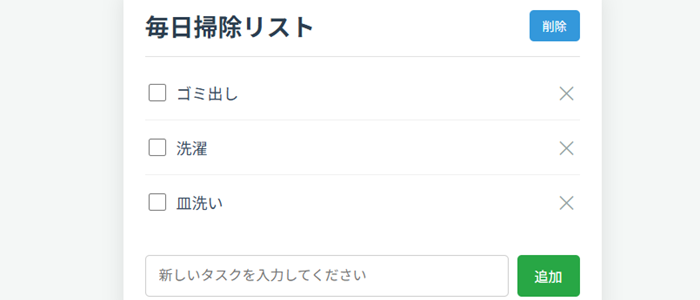
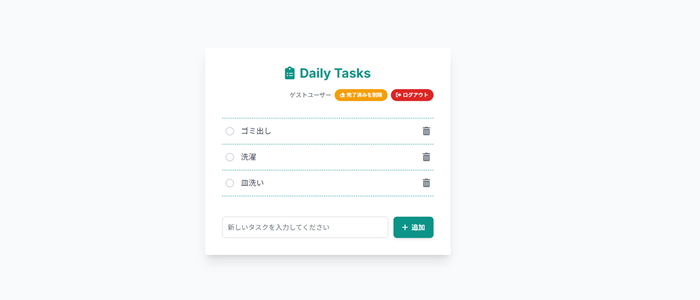
文章少し変更

diff --git a/src/components/About.tsx b/src/components/About.tsx
@@ -48,11 +48,11 @@ const About = () => {
           </ul>
 
           <h3 className="text-2xl font-semibold text-gray-700 mt-8 mb-4">
-            学習中の技術・今後の目標
+            今後の目標
           </h3>
           <ul className="list-disc list-inside text-gray-600 space-y-2 hanging-indent">
             <li>
-              現在はプログラマーとして勤務していますが、Web制作の現場に再び携わりたいと考えています。特に、デザインとコーディングを一貫して行うスキルを活かして、より魅力的で使いやすいWebサイトを作ることで、制作のクオリティ向上に貢献したいと思っています。
+              現在はプログラマーとして勤務していますが、Web制作の現場に再び携わりたいと考えています。特に、デザインとコーディングを一貫して行うスキルを活かして、より魅力的で使いやすいWebサイトを生み出し、制作全体のクオリティ向上に貢献したいと考えています。
             </li>
           </ul>
         </div>

diff --git a/src/data/projects.ts b/src/data/projects.ts
@@ -31,7 +31,7 @@ export const projects: Project[] = [
   },
   {
     id: "todo-app",
-    title: "毎日掃除リスト（自主制作）",
+    title: "Daily Task（自主制作）",
     description:
       "日々の習慣化をサポートするTodoアプリです。Firebase Authenticationによるユーザー認証機能を実装し、メールアドレスでのログイン・新規登録に加え、手軽なゲストログインにも対応しています。タスクデータはFirebase Firestoreにユーザーごとにセキュアに保存され、クラウド上でリアルタイムに同期されます。毎日行う3種類のタスクが自動で再表示される機能により、継続的なタスク管理を支援します。",
     image: "/images/todo-thumbnail.png",

diff --git a/src/components/HomeSection.tsx b/src/components/HomeSection.tsx
@@ -100,7 +100,7 @@ const HomeSection = () => {
     <section
       id="home"
       className="relative flex items-center justify-center 
-                       min-h-[400px] text-center text-white overflow-hidden"
+                       min-h-[300px] text-center text-white overflow-hidden"
     >
       {/* 1. 背景レイヤー (暗いグラデーション) */}
       <div
@@ -129,10 +129,6 @@ const HomeSection = () => {
           Michie Yagi
           <br className="block sm:hidden" /> Portfolio
         </motion.h1>
-
-        <motion.p className="mt-6 text-lg text-white" variants={itemVariants}>
-          Michie Yagiのポートフォリオサイトです。
-        </motion.p>
       </motion.div>
     </section>
   );
